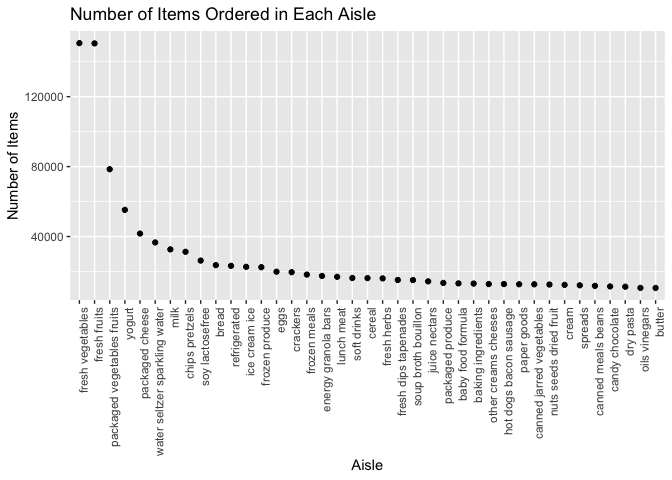
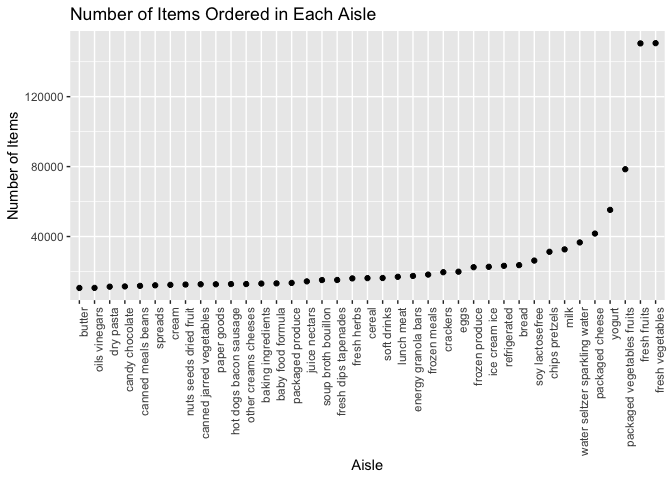
including order_1 variable back so that inline r code works, knit

diff --git a/p8105_hw3_msv2137.md b/p8105_hw3_msv2137.md
@@ -75,29 +75,7 @@ length(unique(instacart$user_id))
 
 ``` r
 order_1 <- instacart[1,]
-
-order_1$order_id
 ```
-
-    ## [1] 1
-
-``` r
-order_1$product_id
-```
-
-    ## [1] 49302
-
-``` r
-order_1$add_to_cart_order
-```
-
-    ## [1] 1
-
-``` r
-order_1$product_name
-```
-
-    ## [1] "Bulgarian Yogurt"
 
 The dataset `instacart` records online grocery orders from Instacart
 users. It contains 1384617 observations from 131209 unique users. The
@@ -152,7 +130,7 @@ most items have been ordered from.
 ``` r
 aisle_plot = instacart %>%
   count(aisle) %>%
-  mutate(aisle = fct_reorder(aisle, desc(n))) %>%
+  mutate(aisle = fct_reorder(aisle, n)) %>%
   filter(n > 10000) %>%
   ggplot(aes(x = aisle, y = n)) + geom_point() + labs(title = "Number of Items Ordered in Each Aisle", x = "Aisle", y = "Number of Items") + theme(axis.text.x = element_text(angle = 90, size = rel(1), hjust = 1))
 
@@ -160,7 +138,6 @@ aisle_plot
 ```
 
 ![](p8105_hw3_msv2137_files/figure-gfm/unnamed-chunk-5-1.png)<!-- -->
-Add in explanation
 
 ### Aisles Table
 
@@ -293,8 +270,6 @@ excellent_plot
 
 ![](p8105_hw3_msv2137_files/figure-gfm/unnamed-chunk-12-1.png)<!-- -->
 
-Add explanation
-
 ## Two Panel Plot
 
 ``` r
@@ -320,29 +295,14 @@ two_panel_plot
 
 ![](p8105_hw3_msv2137_files/figure-gfm/unnamed-chunk-13-1.png)<!-- -->
 
-Add explanation
-
 # Problem 3
 
 ## Load, Tidy and Wrangle Data
 
 ``` r
-accel_data = read_csv("./data/accel_data.csv")
-```
+#accel_data = read_csv("./data/accel_data.csv")
+#View(accel_data)
 
-    ## Rows: 35 Columns: 1443
-
-    ## ── Column specification ────────────────────────────────────────────────────────
-    ## Delimiter: ","
-    ## chr    (1): day
-    ## dbl (1442): week, day_id, activity.1, activity.2, activity.3, activity.4, ac...
-
-    ## 
-    ## ℹ Use `spec()` to retrieve the full column specification for this data.
-    ## ℹ Specify the column types or set `show_col_types = FALSE` to quiet this message.
-
-``` r
-View(accel_data)
 accel_data = read_csv("./data/accel_data.csv") %>%
   janitor::clean_names() %>%
   pivot_longer(
@@ -370,8 +330,11 @@ accel_data = read_csv("./data/accel_data.csv") %>%
 
 ## Description
 
-Describe the resulting dataset (e.g. what variables exist, how many
-observations, etc).
+In the accelometer dataset, there are 50400 rows and 6 columns. Some
+variables that exist are the week number (week), the day id (day\_id),
+the day of the week (day), the minute of the day (minute), the activity
+levels recorded in each minute of the day (activity\_count), and a
+variable that distiguishes weekdays from weekends (weekday).
 
 ## Table of Total Activity Per Day
 
@@ -421,5 +384,13 @@ accel_data %>%
 
 ### Analysis
 
-Describe in words any patterns or conclusions you can make based on this
-graph.
+Several observations can be made from this graph. On all days of the
+week, activity in lower during the first \~300 minutes of the day, as
+well as the last \~150 minutes of the day. A possible explanation for
+this is that the patient may be sleeping during these times.
+
+On certain days, the patient has different spikes in activity. On
+Friday, the patient’s activity is higher in the night and it runs longer
+into the night than on other days. On Sundays, the patient’s peak
+activity occurs around minute 850 approximately. On Thursdays, there is
+a spike in activity around minute 350 approximately.
